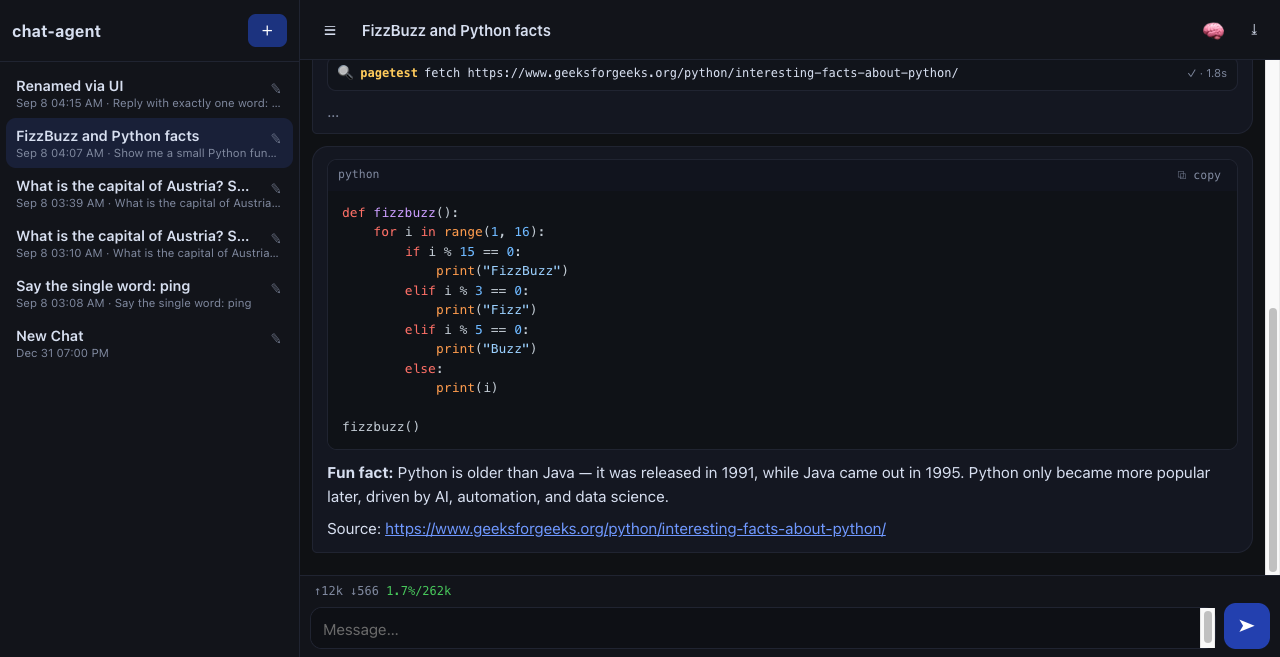
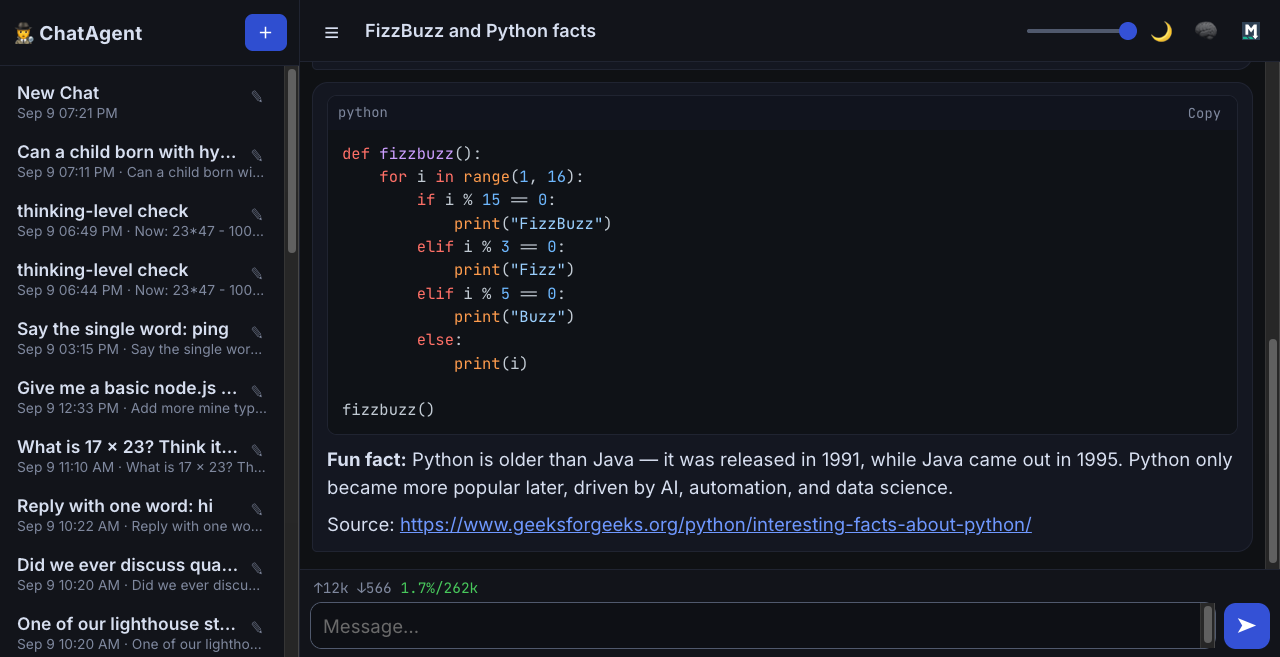
Rename to 🕵 ChatAgent, update README, pin scrollbar
App naming: web page <title> and panel brand are now '🕵 ChatAgent'; the dynamic tab suffix uses an APP_NAME constant in lib/app.js ('<conversation> · 🕵 ChatAgent'), replacing the bare 'chat-agent' that read unfinished in the browser. README heading matches.

README brought up to date: new 'What you get' bullets for the P03 controls (light/dark theme toggle, resizable width slider, both in the chat top bar); Layout section now lists lib/theme.js, public/markserv.svg and the sessions tool. README screenshots replaced with fresh page-test captures showing the WCAG 2.1 AA palettes and the new top-bar control row (width slider, theme, thinking, Markserv export) on the FizzBuzz conversation (500x844 mobile, 500x844 panel drawer, 1280x800 desktop).

Scrollbar pinning: #messages is now the full-width scroll container (its scrollbar stays at the right edge of the screen at every column width); a new inner #chat-col holds the messages and is the element the width slider resizes (20–100%, centered). #composer mirrors the same width so the input stays aligned under the text column. applyWidth() in lib/theme.js sets #chat-col + #composer; all scroll-position logic keeps using #messages. Verified via page-test at 100/40/20% on desktop 1280x800 and mobile 500x844: scrollbar pinned right, column centered, input aligned, no clipping.
[…]

diff --git a/lib/app.js b/lib/app.js
@@ -13,6 +13,7 @@ import { initResizeHandler, initTheme, initWidth } from './theme.js'
 
 const $ = (s) => document.querySelector(s)
 const UUID_RE = /^[0-9a-f-]{36}$/i
+const APP_NAME = '🕵 ChatAgent'
 
 const state = {
   metas: new Map(), // id -> conversation meta
@@ -43,7 +44,7 @@ function upsertMeta(m) {
   if (state.current === meta.id) {
     renderStats(meta)
     $('#chat-title').textContent = meta.title
-    document.title = `${meta.title} · chat-agent`
+    document.title = `${meta.title} · ${APP_NAME}`
     setThinkBtn(meta.thinking === true)
   }
 }
@@ -62,11 +63,11 @@ async function openConversation(id, push, hash = '') {
   const data = await res.json()
   upsertMeta({ conversation: data.meta })
   state.items = hydrate(data.messages)
-  const box = $('#messages')
+  const box = $('#chat-col') // inner column; #messages stays the full-width scroll container
   box.innerHTML = ''
   for (const it of state.items) box.append(buildMessage(it))
   $('#chat-title').textContent = data.meta.title
-  document.title = `${data.meta.title} · chat-agent`
+  document.title = `${data.meta.title} · ${APP_NAME}`
   renderStats(data.meta)
   setThinkBtn(data.meta.thinking === true)
   // Deep link: a #heading in the URL (the page's own hash when arriving via
@@ -116,11 +117,11 @@ function goHome(push) {
   state.items = []
   state.streaming.clear()
   setSendMode()
-  const box = $('#messages')
+  const box = $('#chat-col') // inner column; #messages stays the full-width scroll container
   box.innerHTML = ''
   box.append(emptyStateEl())
   $('#chat-title').textContent = 'New Chat'
-  document.title = 'chat-agent'
+  document.title = APP_NAME
   renderStats(null)
   setThinkBtn(false)
   if (push) history.pushState({}, '', '/')
@@ -259,7 +260,7 @@ function flushRenders() {
 /* ---------------- dom helpers ---------------- */
 
 function appendDom(el) {
-  const box = $('#messages')
+  const box = $('#chat-col') // inner column; #messages stays the full-width scroll container
   const empty = box.querySelector('.empty')
   if (empty) empty.remove()
   box.append(el)

diff --git a/public/style.css b/public/style.css
@@ -297,16 +297,14 @@ button {
 	min-height: 0;
 	position: relative;
 }
-/* The resizable column: #messages + #composer live inside it. width is
-   set by JS (lib/theme.js applyWidth) as a percentage of #chat's content
-   width; margin: 0 auto centers the narrowed column. */
+/* Full-width wrapper: the #messages scroll container (and its scrollbar)
+   always span the chat pane edge to edge; what shrinks with the width
+   slider is the inner #chat-col column and the #composer below it. */
 #chat-inner {
 	flex: 1;
 	display: flex;
 	flex-direction: column;
 	min-height: 0;
-	margin: 0 auto;
-	width: 100%;
 }
 #chat-head {
 	display: flex;
@@ -392,6 +390,17 @@ button {
 #messages:focus-visible {
 	outline: 2px solid var(--blue2);
 	outline-offset: -2px;
+}
+/* The resizable inner column: width is set by JS (lib/theme.js
+   applyWidth) as a percentage of #chat's content width; margin: 0 auto
+   centers the narrowed column INSIDE the full-width #messages scroll
+   container, so the scrollbar stays pinned to the right edge of the
+   screen no matter how narrow the column gets. #composer mirrors the
+   same width + centering (see its rule) so the input stays aligned
+   under the text column. */
+#chat-col {
+	width: 100%;
+	margin: 0 auto;
 }
 
 .msg {
@@ -765,6 +774,10 @@ html[data-theme='dark'] pre.hljs .hljs-section {
 	border-top: 1px solid var(--line);
 	background: var(--bg2);
 	padding: 6px 10px calc(8px + env(safe-area-inset-bottom));
+	/* width + centering set the same way as #chat-col (JS in theme.js) so
+       the input column stays aligned with the text column */
+	width: 100%;
+	margin: 0 auto;
 }
 #stats {
 	font-family: var(--font-mono), ui-monospace, SFMono-Regular, Menlo, monospace;

diff --git a/public/index.html b/public/index.html
@@ -5,7 +5,7 @@
 		<meta name="viewport" content="width=device-width, initial-scale=1, viewport-fit=cover" />
 		<meta name="theme-color" content="#0d0f14" />
 		<meta name="mobile-web-app-capable" content="yes" />
-		<title>chat-agent</title>
+		<title>🕵 ChatAgent</title>
 		<link rel="icon" href="/icon.svg" type="image/svg+xml" />
 		<script src="/vendor/highlight-core.js" type="module"></script>
 		<link id="hljs-theme" rel="stylesheet" href="/vendor/highlight-github-dark.css" />
@@ -15,7 +15,7 @@
 		<div id="app">
 			<aside id="panel" tabindex="-1" aria-label="Conversations">
 				<div class="panel-head">
-					<span class="brand">chat-agent</span>
+					<span class="brand">🕵 ChatAgent</span>
 					<button id="new-chat" title="New conversation" aria-label="New conversation">＋</button>
 				</div>
 				<ul id="conv-list"></ul>
@@ -31,7 +31,9 @@
 					<button id="export-btn" title="Export conversation as markdown" aria-label="Export markdown"><img src="/markserv.svg" alt="" /></button>
 				</header>
 				<div id="chat-inner">
-					<div id="messages" tabindex="0" role="log" aria-live="polite" aria-label="Chat messages"></div>
+					<div id="messages" tabindex="0" role="log" aria-live="polite" aria-label="Chat messages">
+					<div id="chat-col"></div>
+				</div>
 					<footer id="composer">
 						<div id="stats" role="status"></div>
 						<div id="input-row">

diff --git a/lib/theme.js b/lib/theme.js
@@ -1,8 +1,9 @@
 // theme + width state.
 // All visual differences come from style.css: this file only sets
 // data-theme + color-scheme on <html>, swaps the hljs sheet on one
-// <link>, sets the toggle glyph, and sizes #chat-inner as a percentage
-// of its container.
+// <link>, sets the toggle glyph, and sizes the inner #chat-col column
+// (and the #composer below it) as a percentage of the full-width
+// #messages scroll container.
 const THEME_KEY = 'chat-agent:theme'
 const WIDTH_KEY = 'chat-agent:chatWidthRatio'
 const HLJS_HREF = {
@@ -82,8 +83,12 @@ export function initWidth() {
 
 // The ONLY function that sets the column width: a percentage of #chat's
 // content width (default 100%). No min/max beyond the 20–100% clamp.
+// #messages itself stays full-width so its scrollbar is pinned to the
+// right edge of the screen; only the inner column + composer narrow.
 export function applyWidth() {
-	const inner = document.querySelector('#chat-inner')
-	if (!inner) return
-	inner.style.width = Math.round(widthRatio * 100) + '%'
+	const pct = Math.round(widthRatio * 100) + '%'
+	const col = document.querySelector('#chat-col')
+	if (col) col.style.width = pct
+	const composer = document.querySelector('#composer')
+	if (composer) composer.style.width = pct
 }

diff --git a/README.md b/README.md
@@ -1,4 +1,4 @@
-# 🤖 chat-agent — 📱 mobile AI chat on your local network
+# 🕵 ChatAgent — 📱 mobile AI chat on your local network
 
 A mobile-first AI chat that runs **entirely on your LAN**: a Node.js backend serves the web app over
 **HTTPS** (Caddy TLS), talks to a local OpenAI-compatible LLM — `qwen-3.8b-256k` — and lets the
@@ -15,6 +15,8 @@ leaving the network. 🏠
 - 🧠 **Thinking mode toggle** — per conversation: reason first, or answer directly
   (off by default; the thinking trace streams into a collapsible box with a
   200-char preview + expand arrow)
+- 🌗 **Light/dark themes** — the 🌙/☀ button in the top bar flips the whole UI (and the syntax-highlighting palette) between two AA-checked themes; the choice is remembered (default dark)
+- 🎚 **Resizable chat column** — the top-bar width slider narrows or widens the chat from 20% to 100% of the window (always centered); the choice is remembered per device
 - 📋 **Copy button on every turn** — and on every code block
 - 🎨 **Syntax highlighting** for code blocks (highlight.js, self-hosted)
 - 📊 **Usage stats line** — `↑12k ↓566 1.7%/262k`: tokens in, tokens out,
@@ -115,13 +117,9 @@ phone/browser ──https──▶ edge (node) 0.0.0.0:4242
 
 ## 📁 Layout
 
-- `server/` — Node.js backend (ESM): HTTP API, WebSocket hub, protocol edge,
-  agent loop, OpenAI-compatible streaming client, [`pagetest`](https://github.com/F1LT3R/pagetest) tool
-- `public/` — web assets: `index.html`, `style.css`, `sw.js` (notifications),
-  `icon.svg`, `fonts/` (self-hosted Inter + JetBrains Mono woff2)
-- `lib/` — the chat app (browser ES modules): `app.js`, `ui.js`, `ws.js`,
-  `md.js` (markdown + highlight.js), `slug.js` (heading slugs), `stats.js`,
-  `notify.js`
+- `server/` — Node.js backend (ESM): HTTP API, WebSocket hub, protocol edge, agent loop, OpenAI-compatible streaming client, [`pagetest`](https://github.com/F1LT3R/pagetest) + `sessions` tools
+- `public/` — web assets: `index.html`, `style.css`, `sw.js` (notifications), `icon.svg`, `markserv.svg` (export-button logo), `fonts/` (self-hosted Inter + JetBrains Mono woff2)
+- `lib/` — the chat app (browser ES modules): `app.js`, `ui.js`, `ws.js`, `md.js` (markdown + highlight.js), `slug.js` (heading slugs), `stats.js`, `notify.js`, `theme.js` (theme + width state)
 - `sessions/` — one conversation = `<uuid>.jsonl` (session log) + `<uuid>.md`
   (markdown, regenerated after every turn); the UI renders from these
 - `skills/SEARCH.md` — the agent's web-search skill
